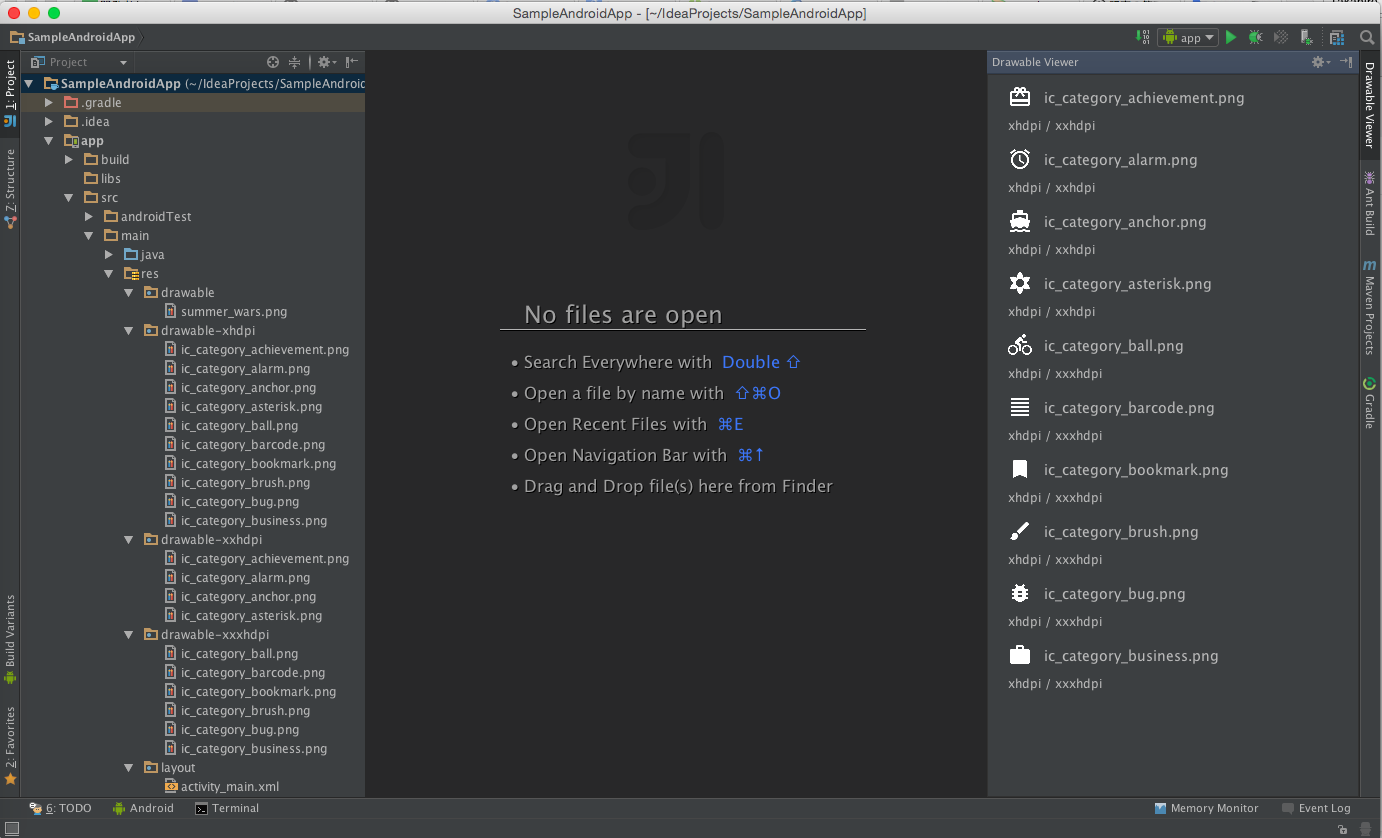
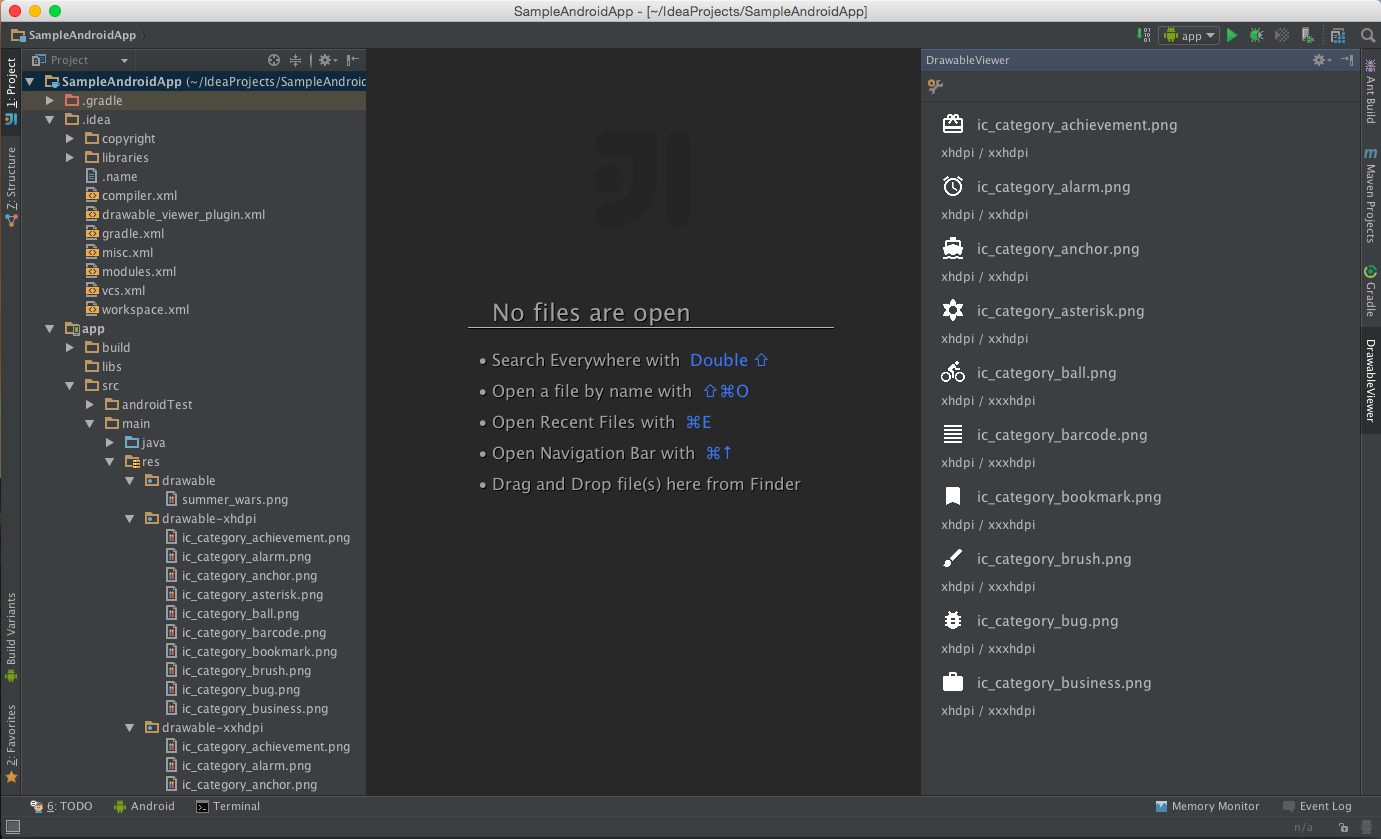
various refactoring

diff --git a/src/com/androhi/androiddrawableviewer/EditTargetResDirAction.java b/src/com/androhi/androiddrawableviewer/EditTargetResDirAction.java
@@ -38,10 +38,10 @@ public class EditTargetResDirAction extends AnAction {
     }
 
     private void resetContent(Project project) {
-        DrawerViewer drawerViewer = new DrawerViewer(project);
+        DrawableViewer drawableViewer = new DrawableViewer(project);
         ContentManager contentManager = ToolWindowManager.getInstance(project)
-                .getToolWindow(DrawerViewer.TOOL_WINDOW_ID).getContentManager();
-        Content content = contentManager.getFactory().createContent(drawerViewer, null, false);
+                .getToolWindow(DrawableViewer.TOOL_WINDOW_ID).getContentManager();
+        Content content = contentManager.getFactory().createContent(drawableViewer, null, false);
 
         contentManager.removeAllContents(true);
         contentManager.addContent(content);

diff --git a/src/com/androhi/androiddrawableviewer/DrawableViewer.java b/src/com/androhi/androiddrawableviewer/DrawableViewer.java
@@ -17,7 +17,7 @@ import java.io.IOException;
 import java.util.ArrayList;
 import java.util.Vector;
 
-public class DrawerViewer extends SimpleToolWindowPanel {
+public class DrawableViewer extends SimpleToolWindowPanel {
 
     public static final String TOOL_WINDOW_ID = "DrawableViewer";
 
@@ -39,7 +39,7 @@ public class DrawerViewer extends SimpleToolWindowPanel {
 
     private Project project;
 
-    public DrawerViewer(final Project project) {
+    public DrawableViewer(final Project project) {
         super(true, true);
         this.project = project;
 

diff --git a/src/com/androhi/androiddrawableviewer/AndroidDrawableViewerToolWindowFactory.java b/src/com/androhi/androiddrawableviewer/AndroidDrawableViewerToolWindowFactory.java
@@ -10,7 +10,7 @@ public class AndroidDrawableViewerToolWindowFactory implements ToolWindowFactory
 
     @Override
     public void createToolWindowContent(Project project, ToolWindow toolWindow) {
-        DrawerViewer viewer = new DrawerViewer(project);
+        DrawableViewer viewer = new DrawableViewer(project);
         final ContentManager contentManager = toolWindow.getContentManager();
         final Content content = contentManager.getFactory().createContent(viewer, null, false);
         contentManager.addContent(content);
